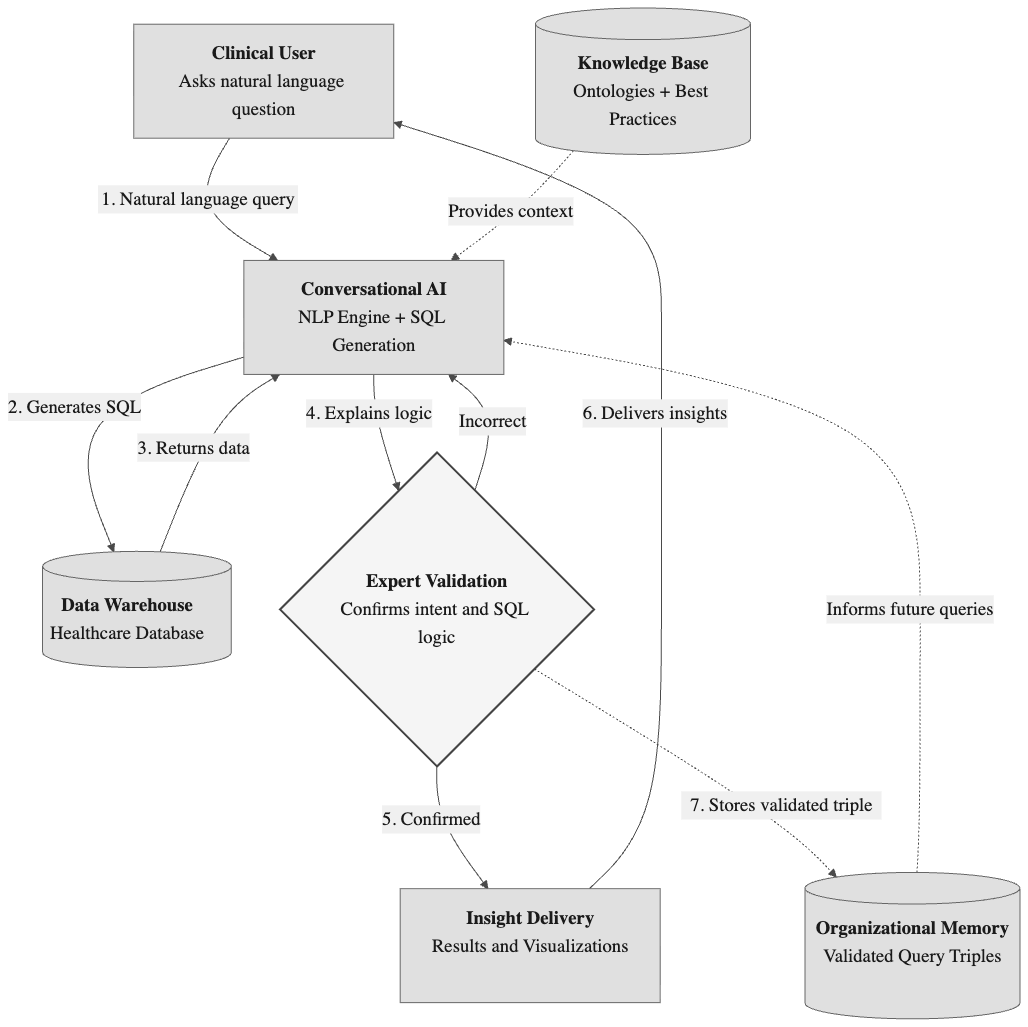
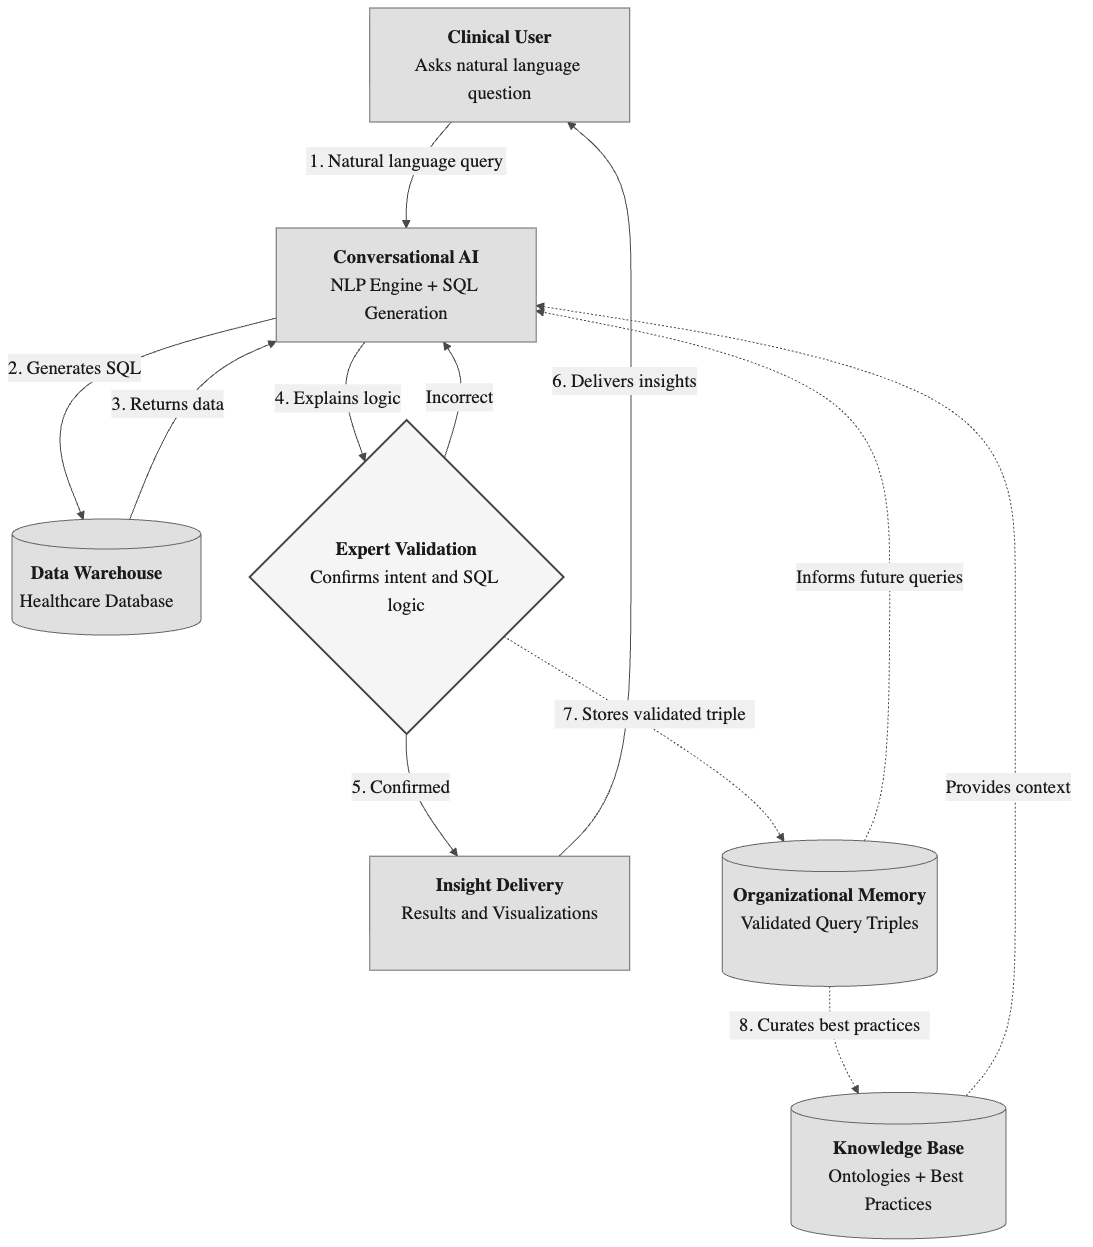
fix(figure): add Step 7->Step 1 continuous-learning loop to Figure 1 (T#3)
Reviewer T#3 noted Figure 1 depicted a static Knowledge Base. Add a dashed
feedback edge from Organizational Memory (validated query triples) to the
Knowledge Base ("8. Curates best practices"), so validated knowledge updates
the ontologies/best practices that then provide context to future queries,
illustrating continuous learning and system updating rather than a static base.

Update the Mermaid source and the figure caption to match; regenerate
architecture.mmd.png and .svg via mermaid-cli.

Refs #540

diff --git a/paper.md b/paper.md
@@ -96,7 +96,7 @@ We propose *Human-in-the-Loop Knowledge Governance (HITL-KG)* as the overarching
 
 The HITL-KG architecture (Figure 1) functions as a *Governance Forcing Function*. It inserts a mandatory validation step into the analytics workflow, preventing the "laundering" of hallucinations while simultaneously capturing expert knowledge.
 
-![Human-in-the-Loop Knowledge Governance (HITL-KG) Architecture. A Clinical User submits a natural language query (step 1) to a Conversational AI with NLP Engine and SQL Generation, which generates SQL and queries the Healthcare Data Warehouse (steps 2-3). The system then presents its logic to an Expert Validation decision point (step 4), which either confirms and delivers insights back to the user (steps 5-6) or loops back for correction. On confirmation, the validated query triple is stored in Organizational Memory (step 7, dashed line), which informs future queries alongside a Knowledge Base of ontologies and best practices.](figures/architecture.mmd.png){width=86.5%}
+![Human-in-the-Loop Knowledge Governance (HITL-KG) Architecture. A Clinical User submits a natural language query (step 1) to a Conversational AI with NLP Engine and SQL Generation, which generates SQL and queries the Healthcare Data Warehouse (steps 2-3). The system then presents its logic to an Expert Validation decision point (step 4), which either confirms and delivers insights back to the user (steps 5-6) or loops back for correction. On confirmation, the validated query triple is stored in Organizational Memory (step 7, dashed line), which both informs future queries and curates the Knowledge Base of ontologies and best practices (step 8), closing a continuous-learning loop so that best practices evolve as new knowledge is validated rather than remaining static.](figures/architecture.mmd.png){width=86.5%}
 
 The corresponding six step Validated Query Cycle is summarized in Figure 2, which shows how queries move from initial clinical intent through expert validation into durable organizational memory.
 